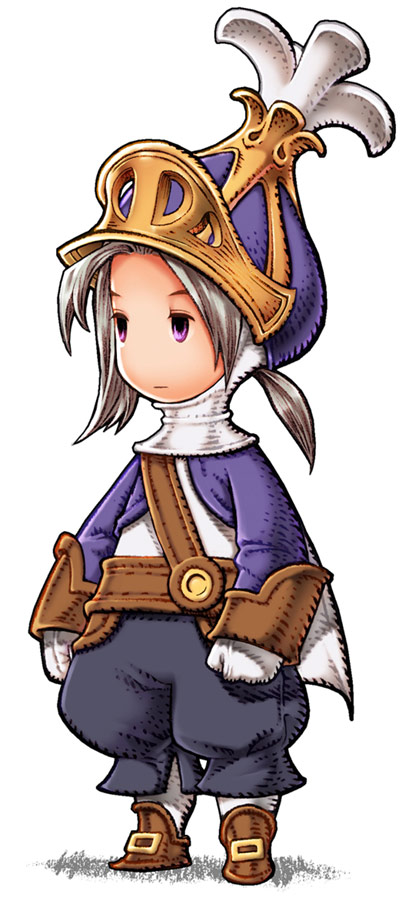
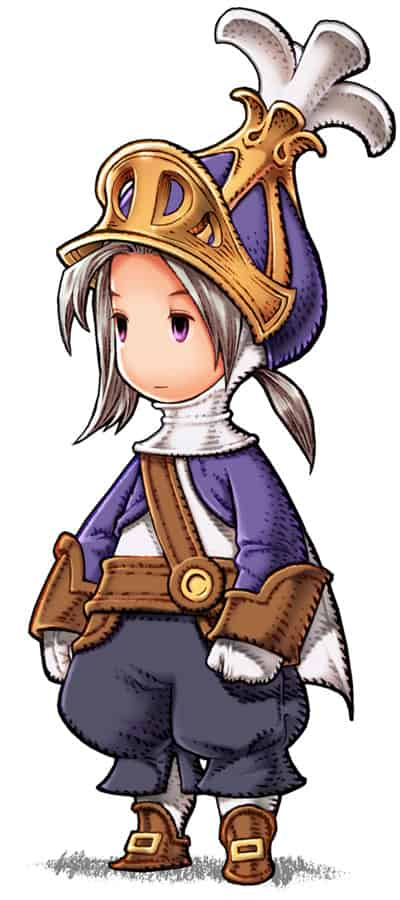
optimize image for better loading time

diff --git a/src/app/material.module.ts b/src/app/material.module.ts
@@ -1,103 +1,14 @@
 import { NgModule } from '@angular/core';
-import {
-    MdAutocompleteModule,
-    MdButtonModule,
-    MdButtonToggleModule,
-    MdCardModule,
-    MdCheckboxModule,
-    MdChipsModule,
-    MdCoreModule,
-    MdDatepickerModule,
-    MdDialogModule,
-    MdExpansionModule,
-    MdGridListModule,
-    MdIconModule,
-    MdInputModule,
-    MdListModule,
-    MdMenuModule,
-    MdNativeDateModule,
-    MdPaginatorModule,
-    MdProgressBarModule,
-    MdProgressSpinnerModule,
-    MdRadioModule,
-    MdRippleModule,
-    MdSelectModule,
-    MdSidenavModule,
-    MdSliderModule,
-    MdSlideToggleModule,
-    MdSnackBarModule,
-    MdSortModule,
-    MdTableModule,
-    MdTabsModule,
-    MdToolbarModule,
-    MdTooltipModule} from '@angular/material';
+import { MdInputModule, MdPaginatorModule } from '@angular/material';
 
 @NgModule({
     imports: [
-        MdAutocompleteModule,
-        MdButtonModule,
-        MdButtonToggleModule,
-        MdCardModule,
-        MdCheckboxModule,
-        MdChipsModule,
-        MdCoreModule,
-        MdDatepickerModule,
-        MdDialogModule,
-        MdExpansionModule,
-        MdGridListModule,
-        MdIconModule,
-        MdInputModule,
-        MdListModule,
-        MdMenuModule,
-        MdNativeDateModule,
-        MdPaginatorModule,
-        MdProgressBarModule,
-        MdProgressSpinnerModule,
-        MdRadioModule,
-        MdRippleModule,
-        MdSelectModule,
-        MdSidenavModule,
-        MdSliderModule,
-        MdSlideToggleModule,
-        MdSnackBarModule,
-        MdSortModule,
-        MdTableModule,
-        MdTabsModule,
-        MdToolbarModule,
-        MdTooltipModule
+      MdInputModule,
+      MdPaginatorModule
     ],
     exports: [
-        MdAutocompleteModule,
-        MdButtonModule,
-        MdButtonToggleModule,
-        MdCardModule,
-        MdCheckboxModule,
-        MdChipsModule,
-        MdCoreModule,
-        MdDatepickerModule,
-        MdDialogModule,
-        MdExpansionModule,
-        MdGridListModule,
-        MdIconModule,
-        MdInputModule,
-        MdListModule,
-        MdMenuModule,
-        MdNativeDateModule,
-        MdPaginatorModule,
-        MdProgressBarModule,
-        MdProgressSpinnerModule,
-        MdRadioModule,
-        MdRippleModule,
-        MdSelectModule,
-        MdSidenavModule,
-        MdSliderModule,
-        MdSlideToggleModule,
-        MdSnackBarModule,
-        MdSortModule,
-        MdTableModule,
-        MdTabsModule,
-        MdToolbarModule,
-        MdTooltipModule
+      MdInputModule,
+      MdPaginatorModule
     ]
 })
 

diff --git a/src/app/components/blog/sidenav/sidenav.html b/src/app/components/blog/sidenav/sidenav.html
@@ -12,12 +12,6 @@
 
   <h3>Popular Posts</h3>
 
-  <h3>Archieves</h3>
-  <!--Data Picker-->
-  <md-input-container>
-    <input mdInput [mdDatepicker]="picker" placeholder="Choose a date">
-    <md-datepicker-toggle mdSuffix [for]="picker"></md-datepicker-toggle>
-    <md-datepicker #picker></md-datepicker>
-  </md-input-container>
-  <md-datepicker #picker></md-datepicker>
+  <h3>Achieves</h3>
+
 </div>
